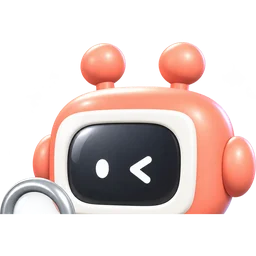
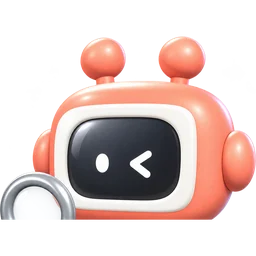
챗봇 머리 아이콘 다시 자르기 — 예측이 머리 아래가 잘리던 것(안테나 길이별 비율: 매칭이 64%·검토미 66%·예측이 70%)

diff --git a/2026-09-09-team-package-v0/app/web/src/components/char_images.js b/2026-09-09-team-package-v0/app/web/src/components/char_images.js
@@ -1,5 +1,5 @@
 // 챗봇·도움말 버튼이 쓰는 캐릭터 그림 — 한 곳에서만 정한다.
-// 원본: handoff/characters-3d-v2-20261027/assets/*.png(1254px 투명 PNG) → 512px webp, 머리(-head)는 위쪽을 잘라 256px.
+// 원본: handoff/characters-3d-v2-20261027/assets/*.png(1254px 투명 PNG) → 512px webp, 머리(-head)는 위쪽(매칭이 64%·검토미 66%·예측이 70% — 안테나 길이가 달라서)을 잘라 256px.
 // 그림을 바꾸려면 assets/characters/ 의 webp 를 «같은 이름»으로 갈아 끼우면 된다
 // (Vite 가 빌드 때 파일 내용 해시를 이름에 붙이므로 /assets 영구 캐시에도 새 그림이 바로 보인다).
 import mt from "../assets/characters/mt.webp"
